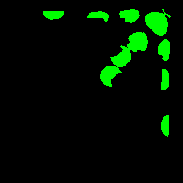
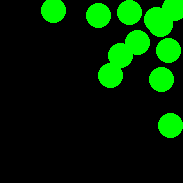
Adds turret detection

diff --git a/main.py b/main.py
@@ -2,6 +2,7 @@
 import time
 
 import keyboard
+import mouse
 
 from analytics import Analytics
 from logger import CliLogger
@@ -11,8 +12,21 @@ from cooldown import Cooldown
 from window import find_rect
 from lutils import wait_league_window
 from ldetect import is_camera_locked, is_level_up, get_minimap_coor, get_minimap_areas, get_objects
-from bot import goto_lane, level_up
+from bot import goto_lane, goto_enemy_base, evade, level_up
 from constants import LEVEL_UP_SEQUENCE
+
+
+def filter_objects(objs):
+    ''' Filters the objects that are detected '''
+    output = {}
+    output['enemy_minions'] = filter(lambda o: o['name'] == 'enemy_minion', objs)
+    output['ally_minions'] = filter(lambda o: o['name'] == 'ally_minion', objs)
+    output['turrets'] = filter(lambda o: o['name'] == 'turret', objs)
+    output['shield_minions'] = filter(
+        lambda o: o['name'] == 'ally_minion' and not o['is_order_side'], objs)
+    for key, value in output.items():
+        output[key] = list(value)
+    return output
 
 
 def main():
@@ -23,7 +37,7 @@ def main():
                         'get_minimap_areas', 'get_objects']
     screen = Screen()
     resources = Resources()
-    cooldown = Cooldown({'goto_lane': 20})
+    cooldown = Cooldown({'goto_lane': 20, 'goto_enemy_base': 3, 'evade': 0.2})
     resources.load(analytics)
 
     hwnd = wait_league_window(logger, (0, 0, 1024, 768))
@@ -41,9 +55,46 @@ def main():
         level_up(level_ups, LEVEL_UP_SEQUENCE)
         coor = get_minimap_coor(analytics, img)
         areas = get_minimap_areas(analytics, resources.images, coor)
-        if not areas['is_map_divide']:
+        objs = get_objects(analytics, img, (190, 0, 190), (255, 20, 255))
+        objs = filter_objects(objs)
+        enemy_minions = objs.get('enemy_minions')
+        shield_minions = objs.get('shield_minions')
+        turrets = objs.get('turrets')
+
+        if (turrets != [] and
+                areas['is_chaos_side'] and
+                areas['is_turret'] and len(shield_minions) <= 0):
+            evade(cooldown)
+            analytics.end_timer()
+            time.sleep(1)
+            continue
+        if turrets != [] and areas['is_chaos_side'] and len(shield_minions) > 0:
+            mouse.move(*turrets[0]['coor'])
+            mouse.click()
+            analytics.end_timer()
+            time.sleep(1)
+            continue
+        if enemy_minions != []:
+            enemy_minions.sort(key=lambda o: o['health'])
+            mouse.move(*enemy_minions[0]['center'])
+            mouse.click()
+            analytics.end_timer()
+            time.sleep(1)
+            continue
+        if areas['is_turret']:
+            if len(shield_minions) <= 2:
+                goto_lane(cooldown)
+                analytics.end_timer()
+                time.sleep(1)
+                continue
+        if not (areas['is_chaos_side'] and areas['is_lane']):
             goto_lane(cooldown)
-        print(get_objects(analytics, img, (227, 0, 228), (255, 1, 255)))
+            analytics.end_timer()
+            time.sleep(1)
+            continue
+
+        if len(shield_minions) > 2:
+            goto_enemy_base(cooldown)
         analytics.end_timer()
         time.sleep(1)
 

diff --git a/ldetect/__init__.py b/ldetect/__init__.py
@@ -9,7 +9,11 @@ from .exceptions import NoCharacterInMinimap
 
 
 def get_small_hp_value(hp_img):
-    hp_img = hp_img.reshape((60, 3))
+    ''' Calcuates the hp of given image of width 60 '''
+    try:
+        hp_img = hp_img.reshape((60, 3))
+    except ValueError:
+        return 60
     reference = hp_img[1]
     for i, value in enumerate(hp_img):
         if get_color_diff(reference, value) > 20:
@@ -21,16 +25,22 @@ def identify_object(img, coor):
     ''' Indentify an object from the coordiate '''
     size = img.shape[:2]
     output = {'coor': coor}
-    if (img[coor_offset(coor, (27, 16), size)] == (24, 239, 24)).all():
+    if (img[coor_offset(coor, (1, 0), size)] == (24, 239, 24)).all():
         output['name'] = 'ally_champion'
+    elif tuple(img[coor_offset(coor, (0, -1), size)]) != (21, 1, 255):
+        return None
     else:
-        color = tuple(img[coor_offset(coor, (1, 1), size)])
-        hp_bar = img[coor[1]+1:coor[1]+2, coor[0]+1:coor[0]+61]
-        output['health'] = get_small_hp_value(hp_bar)
+
+        color = tuple(img[coor_offset(coor, (1, 0), size)])
         diffs = {}
         for key, value in SMALL_HP_BARS.items():
             diffs[key] = get_color_diff(value, color)
         output['name'] = sorted(diffs, key=diffs.get)[0]
+        hp_bar = img[coor[1]:coor[1]+1, coor[0]+1:coor[0]+61]
+        output['health'] = get_small_hp_value(hp_bar)
+        output['center'] = coor[0]+30, coor[1]+35
+        output['is_order_side'] = output['center'][1] / \
+            output['center'][0] > img.shape[0]/img.shape[1]
     return output
 
 
@@ -43,8 +53,13 @@ def get_objects(analytics, img, start, end):
     objects = []
     for contour in contours:
         area = cv2.contourArea(contour)
+        if area > 2000:
+            objects.append({'name': 'turret', 'coor': tuple(contour[0][0])})
+            continue
         if area == 0:
-            objects.append(identify_object(img, tuple(contour[0][0])))
+            obj = identify_object(img, tuple(contour[0][0]))
+            if obj is not None:
+                objects.append(obj)
     analytics.end_timer('get_objects')
     return objects
 
@@ -70,6 +85,7 @@ def get_minimap_areas(analytics, imgs, coor):
     for area in MINIMAP_AREAS:
         pixel = imgs[area['file_name']][coor]
         output[area['name']] = area['mappings'][tuple(pixel)]
+    output['is_chaos_side'] = not output['is_order_side']
     analytics.end_timer('get_minimap_areas')
     return output
 

diff --git a/tobjects.py b/tobjects.py
@@ -17,16 +17,18 @@ def main():
     resources = Resources()
     resources.load(analytics)
 
-    img_bgr = cv2.imread('screenshots/Screen22.png')
+    img_bgr = cv2.imread('screenshots/Screen62.png')
     img = cv2.cvtColor(img_bgr, cv2.COLOR_BGR2RGB)
 
     analytics.start_timer()
     logger.log(f'Camera locked: {is_camera_locked(img)}')
     logger.log(is_level_up(img))
     logger.log(f'Minimap coor: {get_minimap_coor(analytics, img)}')
-    objects = get_objects(analytics, img, (190, 0, 190), (255, 20, 255))
+    objs = get_objects(analytics, img, (190, 0, 190), (255, 20, 255))
+    enemy_minions = list(filter(lambda o: o['name'] == 'enemy_minion', objs))
+    enemy_minions.sort(key=lambda o: o['health'])
     analytics.end_timer()
-    draw_objects(img_bgr, objects)
+    draw_objects(img_bgr, objs)
 
 
 if __name__ == "__main__":

diff --git a/ldetect/utils.py b/ldetect/utils.py
@@ -1,12 +1,21 @@
+''' Utility functions of ldetect package '''
 import cv2
 
 
-def draw_objects(img, objects):
+def draw_objects(img, objects, wait=True):
+    ''' Draws the object data to the original image '''
+    for obj in objects:
+        if 'center' in obj:
+            img = cv2.circle(img, obj['center'], 7, (0, 0, 255), -1)
     for obj in objects:
         if 'health' in obj:
-            text = f'''{obj['name']}, {obj['health']}'''
+            text = f'''{obj['name']}, {obj['health']}, {obj['order_side']}'''
         else:
             text = f'''{obj['name']}'''
         img = cv2.putText(img, text, obj['coor'], 1, 0.8, (0, 255, 0))
+    # img = cv2.line(img, (0, 0), img.shape[:2][::-1], (0, 255, 0))
     cv2.imshow('', img)
-    cv2.waitKey()
+    if wait:
+        cv2.waitKey()
+    else:
+        cv2.waitKey(1)

diff --git a/bot/__init__.py b/bot/__init__.py
@@ -16,6 +16,27 @@ def goto_lane(cooldown):
     cooldown.start_timer('goto_lane')
 
 
+def evade(cooldown):
+    ''' Goto a lane '''
+    # Currently moves to top lane only
+    if not cooldown.is_available('evade'):
+        return
+    print('evading')
+    mouse.move(*humanize((78, 365)))
+    mouse.right_click()
+    cooldown.start_timer('evade')
+
+
+def goto_enemy_base(cooldown):
+    ''' Goto enemy base '''
+    if not cooldown.is_available('goto_enemy_base'):
+        return
+    print('moving to enemy base')
+    mouse.move(*humanize((988, 605)))
+    mouse.right_click()
+    cooldown.start_timer('goto_enemy_base')
+
+
 def level_up(level_ups, sequence):
     ''' Levels up an ability using priority sequence '''
     for ability in sequence:

diff --git a/ldetect/colors.py b/ldetect/colors.py
@@ -2,7 +2,7 @@
 
 
 SMALL_HP_BARS = {
-    'ally_minion': (77, 149, 208),
-    'enemy_minion': (185, 85, 86),
+    'ally_minion': (98, 167, 231),
+    'enemy_minion': (224, 114, 112),
     'plant': (180, 136, 92),
 }
